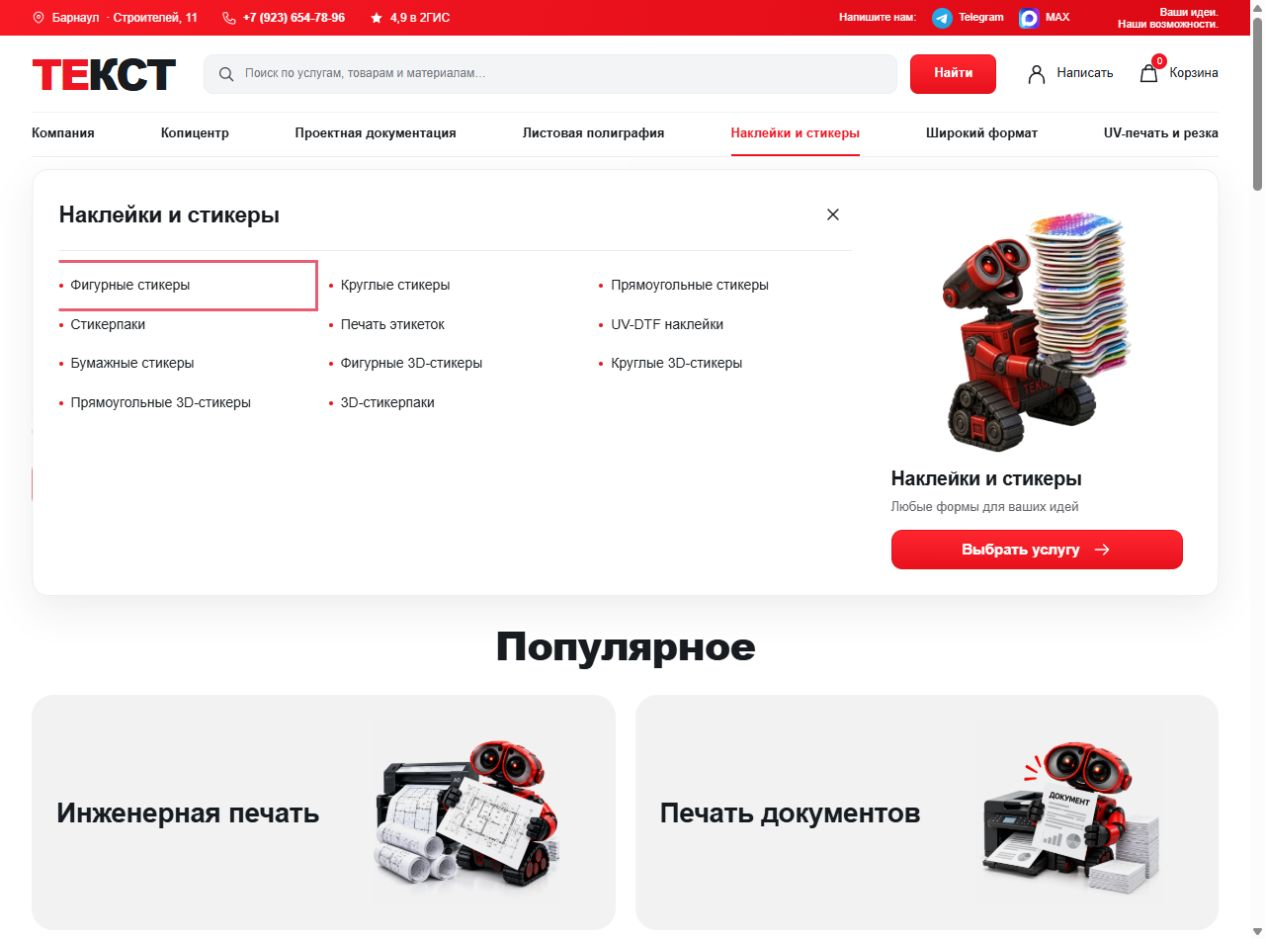
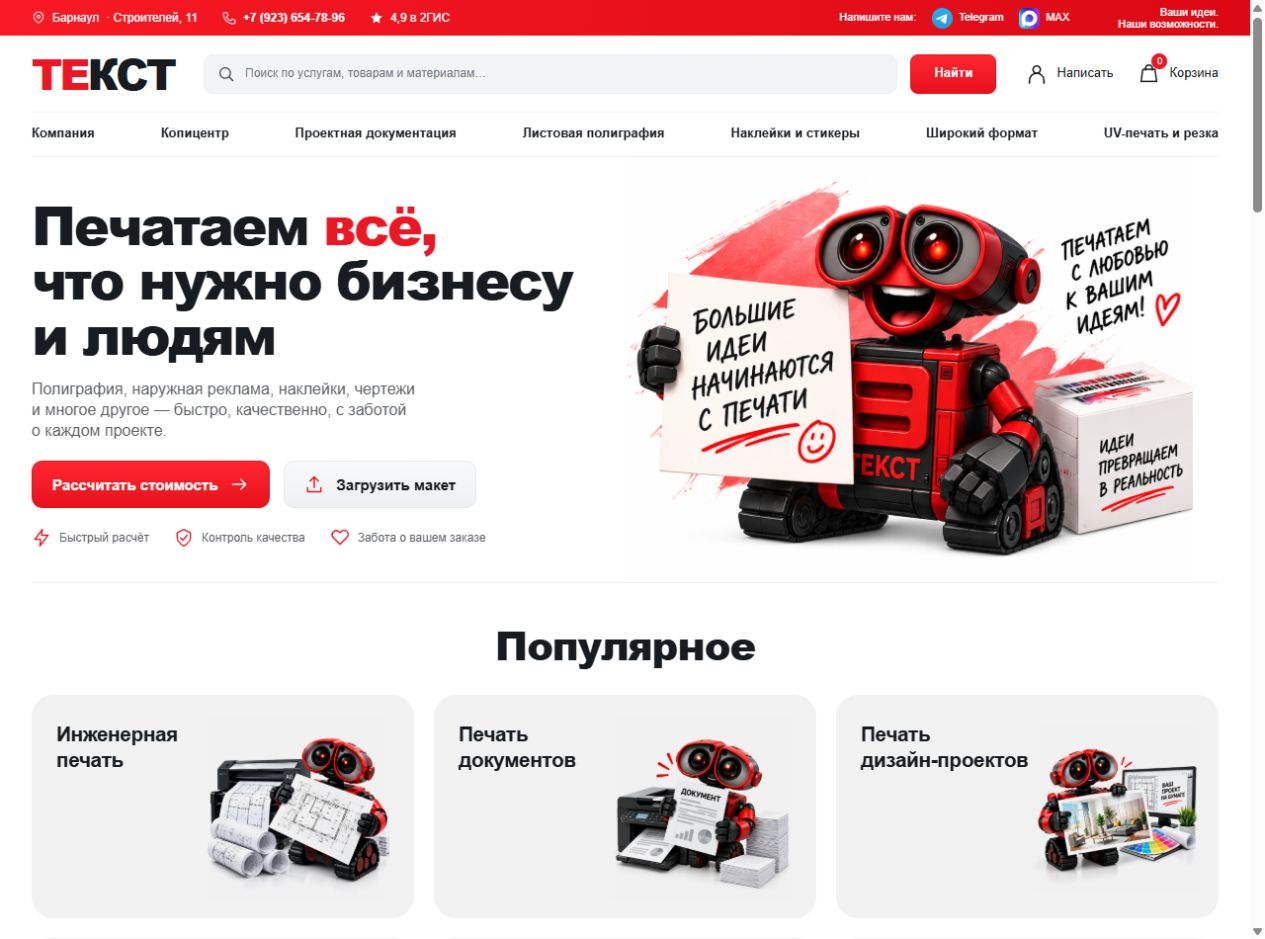
Restore original service card layout with whole-word wrapping

diff --git a/homepage.css b/homepage.css
@@ -191,8 +191,8 @@ footer{background:linear-gradient(120deg,#242829,#1c2021);color:#fff;padding:24p
 .calculator-art img{position:absolute;inset:8px;width:calc(100% - 16px);height:calc(100% - 16px);max-width:100%;max-height:100%;object-fit:contain}
 .featured-section{margin-top:40px;margin-bottom:34px}
 .featured-section>h2{text-align:center;font-size:40px;letter-spacing:-1px;margin-bottom:28px}
-.featured-grid{display:grid;grid-template-columns:repeat(2,minmax(0,1fr));gap:20px}
-.featured-card{display:grid;grid-template-columns:minmax(0,.52fr) minmax(0,.48fr);gap:16px;align-items:stretch;text-align:left;background:#f2f2f2;border:1px solid transparent;border-radius:22px;height:238px;padding:24px;min-width:0;transition:background .25s,border-color .25s,box-shadow .25s,transform .25s}
+.featured-grid{display:grid;grid-template-columns:repeat(3,minmax(0,1fr));gap:20px}
+.featured-card{display:grid;grid-template-columns:minmax(min-content,42fr) minmax(0,58fr);gap:6px;align-items:stretch;text-align:left;background:#f2f2f2;border:1px solid transparent;border-radius:22px;height:226px;padding:22px 18px 18px 24px;min-width:0;transition:background .25s,border-color .25s,box-shadow .25s,transform .25s}
 .featured-card:focus-visible{background:#fff6f6;border-color:#e8a5ab;box-shadow:0 12px 26px #a52c3014;transform:translateY(-4px)}
 @media(hover:hover){
   .featured-card:hover{background:#fff6f6;border-color:#e8a5ab;box-shadow:0 12px 26px #a52c3014;transform:translateY(-4px)}
@@ -201,8 +201,8 @@ footer{background:linear-gradient(120deg,#242829,#1c2021);color:#fff;padding:24p
 }
 .featured-card:active{transform:translateY(-1px) scale(.985);box-shadow:0 4px 12px #a52c3010}
 .featured-card:focus-visible{outline:3px solid var(--red);outline-offset:4px}
-.featured-copy{display:flex;align-items:center;justify-content:flex-start;min-width:0}
-.featured-name{font-size:28px;line-height:1.2;letter-spacing:-.4px;font-weight:700;text-wrap:balance;overflow-wrap:normal;word-break:normal;hyphens:none;transition:color .25s}
+.featured-copy{display:flex;flex-direction:column;align-items:flex-start;gap:10px;min-width:0;padding-top:4px}
+.featured-name{font-size:21px;line-height:1.2;letter-spacing:-.5px;font-weight:600;text-wrap:wrap;overflow-wrap:normal;word-break:normal;hyphens:none;transition:color .25s}
 .featured-word{display:inline-block;white-space:nowrap}
 .featured-art{display:block;position:relative;min-width:0;min-height:0;width:100%;padding:0}
 .featured-art img{position:absolute;inset:0;display:block;object-fit:contain;object-position:center;width:100%;height:100%;max-height:100%;mix-blend-mode:multiply;transition:transform .3s}
@@ -213,17 +213,17 @@ footer{background:linear-gradient(120deg,#242829,#1c2021);color:#fff;padding:24p
 .service-summary .dialog-intro{margin-bottom:0}
 @media(max-width:1150px){
   .hero-art{height:390px}
-  .featured-card{grid-template-columns:minmax(0,.56fr) minmax(0,.44fr);height:224px;padding:18px;gap:12px}
-  .featured-name{font-size:25px}
+  .featured-card{height:220px;padding:20px 14px 16px 21px;gap:3px}
+  .featured-name{font-size:19px}
   .featured-grid{gap:16px}
   .calculator-art{height:220px}
 }
 @media(max-width:950px){
   .hero-art{height:350px}
   .featured-section>h2{font-size:34px}
-  .featured-grid{grid-template-columns:1fr}
-  .featured-card{grid-template-columns:minmax(0,.52fr) minmax(0,.48fr);height:224px;padding:22px}
-  .featured-name{font-size:26px}
+  .featured-grid{grid-template-columns:repeat(2,minmax(0,1fr))}
+  .featured-card{height:216px;padding:22px 18px 18px 24px}
+  .featured-name{font-size:21px}
   .calculator-art{height:200px}
   .calculator-banner{min-height:220px}
 }
@@ -233,8 +233,8 @@ footer{background:linear-gradient(120deg,#242829,#1c2021);color:#fff;padding:24p
   .featured-section{margin-top:30px;margin-bottom:26px}
   .featured-section>h2{font-size:30px;margin-bottom:20px}
   .featured-grid{grid-template-columns:1fr;gap:14px}
-  .featured-card{grid-template-columns:minmax(0,.62fr) minmax(0,.38fr);height:200px;padding:16px;border-radius:20px;gap:8px}
-  .featured-name{font-size:clamp(20px,5.65vw,26px)}
+  .featured-card{height:204px;padding:21px 17px 17px 22px;border-radius:20px;gap:4px}
+  .featured-name{font-size:20px}
   .calculator-banner{display:grid;grid-template-columns:58% minmax(0,42%);min-height:0}
   .calculator-copy{padding:20px 0 20px 17px}
   .calculator-copy h2{font-size:22px;overflow-wrap:normal;hyphens:auto}
@@ -254,8 +254,8 @@ footer{background:linear-gradient(120deg,#242829,#1c2021);color:#fff;padding:24p
   .topbar-socials .messenger-logo{width:18px;height:18px}
 }
 @media(max-width:360px){
-  .featured-card{grid-template-columns:minmax(0,.62fr) minmax(0,.38fr);height:186px;padding:12px}
-  .featured-name{font-size:clamp(18px,5.6vw,19px)}
+  .featured-card{height:190px;padding:18px 12px 14px 17px}
+  .featured-name{font-size:18px}
   .calculator-copy h2{font-size:19px}
   .calculator-lead{font-size:12px}
   .calculator-copy>p:not(.calculator-lead){font-size:11px}

diff --git a/README.md b/README.md
@@ -2,7 +2,7 @@
 
 Главная страница обновлена 5 октября 2026 по выбранному пользователем референсу `Пример для категории - Наклейки и стикеры1.png`. Оригиналы документов и изображений сохранены без изменений. Предыдущая версия страницы сохранена в `.work/homepage-before-20261005/`.
 
-Раздел «Популярное» использует светло-серые горизонтальные карточки с крупным жирным названием слева и иллюстрацией справа. Названия переносятся только между словами, включая сохранение целиком слов с дефисом. Используются все 12 отдельных изображений из `сайт/раздел популярное/*1.png`. Версия до добавления этого раздела сохранена в `.work/homepage-before-popular/`.
+Раздел «Популярное» использует исходные светло-серые горизонтальные карточки из GitHub: название слева, иллюстрация справа. Названия переносятся только между словами, включая сохранение целиком слов с дефисом. Текстовая колонка вмещает самое длинное слово, чтобы оно не заходило на иллюстрацию. Используются все 12 отдельных изображений из `сайт/раздел популярное/*1.png`. Версия до добавления этого раздела сохранена в `.work/homepage-before-popular/`.
 
 Последнее уточнение: «Популярные направления» удалены, оставлен только новый раздел «Популярное». Первый экран использует `assets/hero-screenshot.webp` — отдельную иллюстрацию, воссозданную встроенным image_gen по скриншоту пользователя с роботом, листом «Большие идеи начинаются с печати» и коробкой. В калькуляторах оставлены заголовок, одна короткая строка и кнопка расчёта визиток. Версия перед этими правками находится в `.work/homepage-before-cleanup/`.
 
@@ -29,7 +29,7 @@ npm run dev
 - Адаптивная главная: первый экран, «Популярное» из 12 карточек, баннер калькуляторов, логотипы клиентов, четыре преимущества, карта доставки, отзывы, FAQ и темный подвал.
 - Заголовки, описания и кнопки сверстаны отдельным HTML-текстом. Надписи внутри исходных иллюстраций сохранены: пользователь уточнил, что их убирать не нужно. Используются отдельные изображения, а не готовые баннеры с заголовками и блоками интерфейса.
 - На первом экране стоит `assets/hero-screenshot.webp`, в блоке калькуляторов — `сайт/Баннера/!калькулятор.png`. Ранее сгенерированные пустые роботы и иллюстрация «Больше, чем печать» больше не используются на главной.
-- Раздел «Популярное»: 12 карточек, две колонки на большом экране и одна на экранах до 950 пикселей. Каждая карточка открывает соответствующую услугу или калькулятор визиток. Иллюстрации в этом блоке, первом экране и блоке калькулятора помещаются целиком через `object-fit: contain`.
+- Раздел «Популярное»: 12 карточек, три колонки на большом экране, две на планшете и одна на телефоне. Каждая карточка открывает соответствующую услугу или калькулятор визиток. Иллюстрации в этом блоке, первом экране и блоке калькулятора помещаются целиком через `object-fit: contain`.
 - В окне услуги заголовок и описание находятся слева, иллюстрация справа; на телефоне блоки идут друг под другом. Для брошюровки используется присланная пользователем иллюстрация `брошюровка на пружину.png`.
 - Семь разделов верхнего меню; выпадающие панели на компьютере и аккордеон внутри мобильного меню.
 - Каталог 55 услуг из финальной SEO-таблицы: поиск, карточки с вариантами, примерами цен, сроками и требованиями к макетам.
@@ -61,7 +61,7 @@ npm run dev
 
 После последнего уточнения на этих пяти ширинах проверено: ровно один раздел «Популярное», старый раздел направлений отсутствует, в калькуляторе одна строка описания, новая иллюстрация целиком помещается на экране. Проверена кнопка расчета визиток. Превью: `preview/home-cleanup-desktop.png`, `preview/hero-screenshot-desktop.png`, `preview/calculators-simple-mobile.png`.
 
-Крупные названия карточек проверены на ширинах 320, 390, 768, 1024 и 1280 пикселей: слова не разрываются, текст помещается в карточки, горизонтального переполнения нет. Проверено открытие услуги «Твёрдый переплёт дипломов». Превью: `preview/header-popular-cards.jpg` и `preview/popular-centered-mobile.jpg`.
+Переносы в названиях карточек проверены на ширинах 320, 390, 768, 1024 и 1280 пикселей: слова не разрываются, текст помещается в карточки, горизонтального переполнения нет. Проверено открытие услуги «Твёрдый переплёт дипломов». Превью: `preview/header-popular-cards.jpg` и `preview/popular-centered-mobile.jpg`.
 
 ## Файлы
 
